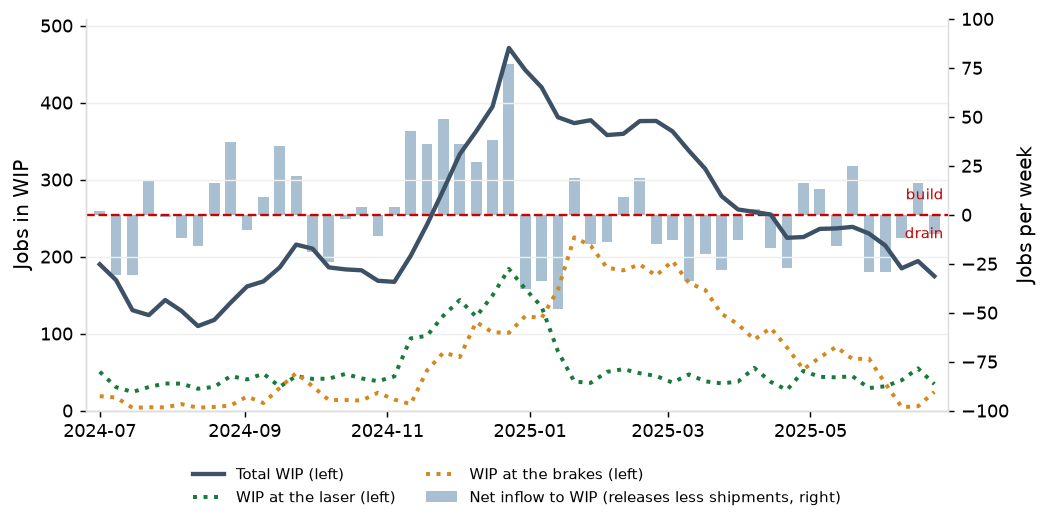
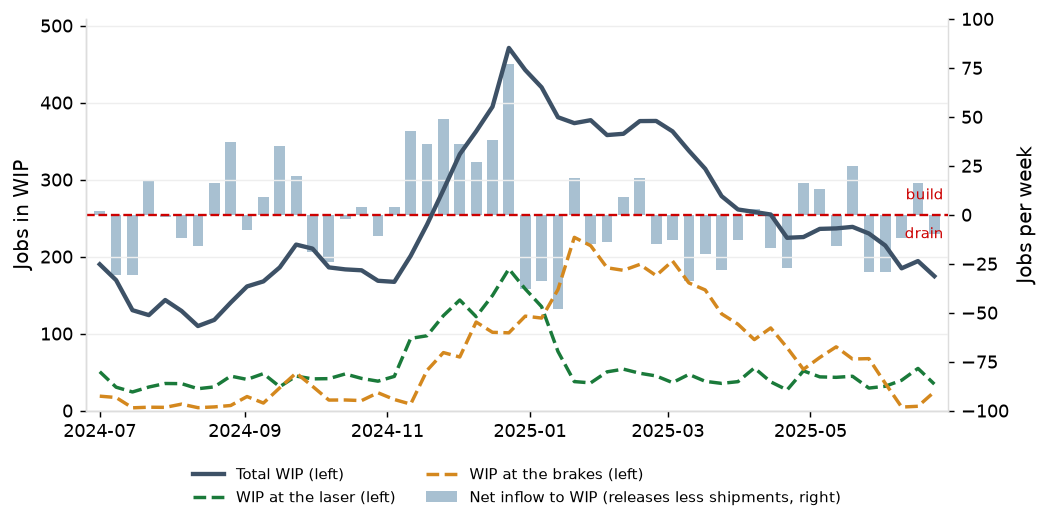
Flow and on-time delivery: report ends at its sections; late jobs wording and chart labels

diff --git a/docs/reports/lead_time_and_late_jobs.html b/docs/reports/lead_time_and_late_jobs.html
@@ -55,16 +55,16 @@ nav.toc a.sub { font-size: 12px; padding-left: 22px; }
 @media print { nav.toc { display: none; } .layout { display: block; max-width: none; padding: 0; } .content { max-width: none; padding: 0; } }
 </style></head>
 <body><div class="page-header"><h1>Report: Flow and On-time Delivery</h1><div class="sub">Created by Brian Davis, 2026</div></div>
-<div class="layout"><nav class="toc"><div class="toc-title">Contents</div><a href="#f1">1. Work in Process</a><a href="#f2">2. Lead Time</a><a href="#f3">3. Late Jobs</a><a href="#rec">Recommendation</a><a href="#method">Method and data</a><a href="#appendix">Appendix</a></nav>
+<div class="layout"><nav class="toc"><div class="toc-title">Contents</div><a href="#f1">1. Work in Process</a><a href="#f2">2. Lead Time</a><a href="#f3">3. Late Jobs</a><a href="#appendix">Appendix</a></nav>
 <main class="content"><h2 id='f1'>1. Work in Process</h2>
 
 <p>In 2025, the shop carried an average of 253 WIP jobs against a throughput of about 20 shipped a day, so a job spent about 13 working days on the floor. WIP averaged 193 jobs over the past three years and peaks every December: 252 jobs in 2023, 471 in 2024 and 383 in 2025.</p>
 <p>By location, the brakes (queue and run together) hold 30% of WIP in 2025, while the laser cutting stations hold 20% and outside processing 10%. The other eight work centers and jobs complete but not yet shipped hold the remaining 40% between them, none above 8%. In Q2-Q4 the brakes' share falls to 18% and the lasers' rises to 24%, as a result of the Q1 backlog having been worked through.</p>
 <p>The 2025 average floor WIP of 253 jobs was 1.03x higher than the quoted lead times imply at measured throughput; in Q2-Q4 it was 209 WIP jobs against 250 implied (0.84x). The excess for the year is a result of the first-quarter backlog. In Q2-Q4 the floor carried 41 fewer jobs than its quoted lead times allow at the throughput it achieved, so it could have taken on about 20% more work, or quoted shorter lead times, and still shipped the average job inside its quote. See Appendix Table <a href='#t1'>1</a> for additional detail.</p>
 <div class='chart-title'>Average Share of Jobs in WIP by Location</div><img alt="WIP by location" src="../figures/lead_time_wip_by_location.png?v=2cc4679e">
-<p>WIP was within 10% of its expected value (measured as throughput x working days) in 9 of the last 12 quarters, meaning the floor was in balance. The three quarters that miss are the 2024 year-end build (2024 Q4), when WIP ran ahead of shipments, and the quarters in which a build shipped (2023 Q1 and 2025 Q2), when shipments ran ahead of WIP. See Appendix Table <a href='#t2'>2</a> for additional detail.</p>
-<p>WIP peaked at 471 jobs at the end of 2024 against a Q3 2024 average of 153. In Q4 2024, the shop released 26% more brake standard hours than in Q3. Over six weeks in Q4 2024, this surge pushed the lasers to 92% of scheduled hours on average, vs. 69% in Q3. During the three peak weeks, 94 to 123 jobs were waiting to be cut, vs. an average of 36 jobs in Q3. The work then queued at the brakes, which already run at 91% in a normal quarter, and it took through Q1 and into Q2 2025 to clear the backlog. See Appendix Table <a href='#t3'>3</a> for additional detail.</p>
-<div class='chart-title'>Weekly WIP and Net Inflow, Q3 &rsquo;24 to Q2 &rsquo;25</div><img alt="Weekly WIP and net inflow, July 2024 to June 2025" src="../figures/lead_time_year_end_build.png?v=bf6adcb9">
+<p>WIP was within 10% of its expected value (measured as <i>throughput x working days</i>) in 9 of the last 12 quarters, meaning the floor was in balance. The three quarters that miss are the 2024 year-end build (2024 Q4), when WIP ran ahead of shipments, and the quarters in which a build shipped (2023 Q1 and 2025 Q2), when shipments ran ahead of WIP. See Appendix Table <a href='#t2'>2</a> for additional detail.</p>
+<p>WIP peaked at 471 jobs at the end of 2024 against a Q3 2024 average of 153. In Q4 2024, the shop released 26% more brake standard hours than in Q3. Over six weeks in Q4 2024, this surge pushed the lasers to 92% of scheduled hours on average, vs. 69% in Q3. During the three peak weeks, 94 to 123 jobs were waiting to be cut, vs. an average of 36 jobs in Q3. The work then queued at the brakes, which already run at 91% in a normal quarter, and it took through Q1 and into Q2 2025 to clear this backlog. See Appendix Table <a href='#t3'>3</a> for additional detail.</p>
+<div class='chart-title'>Weekly WIP and Net Inflow, Q3 &rsquo;24 to Q2 &rsquo;25</div><img alt="Weekly WIP and net inflow, July 2024 to June 2025" src="../figures/lead_time_year_end_build.png?v=8bcfba54">
 
 
 <h2 id='f2'>2. Lead Time</h2>
@@ -83,40 +83,19 @@ nav.toc a.sub { font-size: 12px; padding-left: 22px; }
 <h2 id='f3'>3. Late Jobs</h2>
 <h3 id='f3_1'>Drivers behind late jobs</h3>
 <p>In 2025, the shop had 1,226 late jobs that shipped a total of 4,647 days late (average of 3.8 days late for each job), with 379 of these late jobs (31%) in Q2-Q4 that shipped a total of 1,232 days late (average of 3.3 days late for each).</p>
-<p>We analyzed the ERP and shop-floor records to arrive at an attribution of lost days (i.e., how many days late the jobs shipped) by driver. For each late job, we counted the days above the on-time median at each stage as lost, and assigned to a driver by the rules in <a href='#method'>Method and data</a>.</p>
+<p>We analyzed the ERP and shop-floor records to arrive at an attribution of lost days (i.e., how many days late the jobs shipped) by driver. For each late job, we considered how many days it ran longer than an on-time job of the same routing class at each stage, as well as material holds and late purchase order receipts. We then assigned each job to a driver.</p>
 <p>In 2025, jobs waiting at work centers (i.e., queue constraints) accounted for 36% of the 4,647 lost days, while jobs that were released late accounted for 17%, and jobs that waited on material and outside processing accounted for 7% and 3%, respectively. In Q2-Q4, jobs that were released late accounted for 46% of the 1,232 lost days, with queue constraint (20%), material (9%) and outside processing (4%) the other main drivers. See Appendix Tables <a href='#t8'>8</a>, <a href='#t9a'>9a</a> and <a href='#t9b'>9b</a> for additional detail.</p>
 <p>33% of lost days in 2025 and 18% in Q2-Q4 have no attribution. Of the 1,543 non-attributed lost days in 2025, 54% was from work center queue time above on-time median but below the attribution threshold, 18% from setup and run time above normal with no overrun or rework recorded, and 11% from movement between stages. The remainder have no discernible cause. See Appendix Tables <a href='#t10'>10</a> and <a href='#t11'>11</a> for additional detail.</p>
 <div class='chart-title'>Lost days by attributed cause</div><img alt="Lost days by attributed cause" src="../figures/late_jobs_lost_days_by_cause.png?v=1f366db6">
-<div class='chart-title'>Lost days by work center and cause</div><img alt="Lost days by work center and cause" src="../figures/late_jobs_lost_days_by_work_center.png?v=dbcfb687">
+<div class='chart-title'>Lost days by work center and cause</div><img alt="Lost days by work center and cause" src="../figures/late_jobs_lost_days_by_work_center.png?v=a1671524">
 
 <h3 id='f3_2'>The shop's own records</h3>
 <p>Late-reason codes are inputted retroactively on late jobs by the customer service team during the weekly delivery review. These codes are pulled from a dropdown list with six choices: capacity, material, outside processing, customer change, quality and other. As seen below, a significant portion of late jobs had no late-reason code entered, and this is attributed to the fact these codes are entered in weekly batches, as opposed to shop floor entries at the time the job runs late. See Appendix Table <a href='#t13'>13</a> for additional detail.</p>
 <div class='chart-title'>Late-reason codes as entered on late jobs</div><img alt="Late-reason codes as entered on late jobs" src="../figures/late_jobs_codes_entered.png?v=0f49de80">
 <p>To validate the accuracy of these codes, we compared them against the lost days attribution drivers shown above. We first mapped the late-reason codes to the corresponding attribution drivers: queue constraint and setup overrun count as capacity; material, outside processing and quality as their own codes; a hold and days not attributed as other. The notable exception is that the "released late" attribution driver is not a listed option for late-reason codes; those jobs are mostly coded as capacity or other (137 of the 175 with a code), and count as other in the comparison. We recommend adding this late-reason code into the system, given it accounts for a significant portion of lost days.</p>
-<p>The entered code agrees with the largest attributed cause on 35.8% of coded late jobs against 31.3% expected by chance (31.3% against 26.1% in Q2-Q4). Queue constraint is the largest attributed cause on 43% of the jobs coded capacity, and on 42% of the jobs with no code and 40% of those coded material. Material is the largest cause on 17 of the 94 jobs coded material, outside processing on 2 of the 49 coded outside processing and quality on 1 of the 32 coded quality. Of the 258 jobs where released late is the largest cause, 94 are coded capacity, 83 carry no code and 43 are coded other. See Appendix Tables <a href='#t14'>14</a> and <a href='#t15'>15</a> for additional detail. From this analysis, we conclude that the late-reason codes carry almost no relevant information. In the <a href='#rec'>Recommendation</a> section, we lay out our proposed solution for the shop going forward.</p>
-<div class='chart-title'>What the shop coded against what the data shows</div><img alt="What the shop coded against what the data shows" src="../figures/late_jobs_code_against_cause.png?v=a616bc18">
-
-<h2 id='rec'>Recommendation</h2>
-
-<p>Restate the fixed quote as a percentile of the measured lead-time distribution by routing class (<a href='quoting_and_early_warning.html'>Quoting and early warning from load</a>): the 10-day repeat quote is met on 69% of jobs in an ordinary quarter. Plan the fourth-quarter peak with planned Saturday brake shifts from November through February and the setup program, sized on the shop model (<a href='options_tested.html'>Options tested: release rules, scheduling, shifts and equipment</a>); the 2024 build put 847 jobs late in the first quarter of 2025. Ordinary-quarter lateness is taken up in <a href='#f3'>Section 3</a>, where material, vendor and robotic weld causes are attributed job by job.</p>
-
-
-<p>Replace the late-reason code on the shipment with a buffer status record kept by production control: each job's time buffer in thirds, and a reason captured when the job turns red, from this list: promise inside the standard lead time; queue at a named work center; material short at the first cut; outside processing late; quality; hold by reason; not attributed. Review the record weekly in place of the late-reason Pareto.</p>
-<p>Require the rush flag and a named approver on every promise inside the standard lead time (<a href='quoting_and_early_warning.html'>the quoting report</a> sizes the quote). Extend the kit check to stock sheet items (<a href='quoting_and_early_warning.html'>the quoting report</a> measures kit completeness).</p>
-
-<p>Target: 95% of jobs shipped by the promised date in every quarter, the first quarter included.</p><p>Target: A reason recorded on every late job at the moment it turns red.</p>
-<table class="data"><thead><tr><th>Action</th><th>Owner</th><th>When</th></tr></thead><tbody><tr><td class="">Plan the fourth-quarter peak on the shop model: planned Saturday brake shifts and the setup program (<a href='options_tested.html'>the options report</a>); a WIP cap and due-date dispatch lower on-time delivery (<a href='options_tested.html'>the options report</a>)</td><td class="">Plant manager</td><td class="">April 2026</td></tr><tr><td class="">Restate quoted lead times as a percentile of measured lead time by routing class and brake load (<a href='quoting_and_early_warning.html'>the quoting report</a>)</td><td class="">Estimating and customer service manager</td><td class="">May 2026</td></tr><tr><td class="">Replace the late-reason code with a buffer status record: time buffer in thirds, reason captured when a job turns red, weekly review</td><td class="">Production control manager</td><td class="">March 2026</td></tr><tr><td class="">Require the rush flag and a named approver on every promise inside the standard lead time (<a href='quoting_and_early_warning.html'>the quoting report</a> sizes the quote)</td><td class="">Customer service manager</td><td class="">February 2026</td></tr><tr><td class="">Extend the kit check to stock sheet items (<a href='quoting_and_early_warning.html'>the quoting report</a> measures kit completeness)</td><td class="">Purchasing manager</td><td class="">March 2026</td></tr></tbody></table>
-<p>Follow-up: Weekly: WIP by location, brake queue per operation, and material wait at the first operation. <a href='quoting_and_early_warning.html'>The quoting report</a> evaluates these as leading measures of on-time delivery.</p>
-<h2 id='method'>Method and data</h2>
-<h3>Lead time decomposition</h3>
-<p>Jobs shipped in 2025, whole year and Q2-Q4; records from January 2023 to December 2025.<br>Sources: ERP, shop-floor data collection, quality, maintenance and attendance exports (batch 20261003T152921Z-20250101).</p>
-
-<p>Coverage: 5,245 jobs shipped in 2025, 3,815 in Q2-Q4. Durations are in working days; a scheduled Saturday counts as one. Lead time runs from the release date at 10:00 to the ship date at 15:00; days in WIP counts whole days from the release day to the day before shipment and is 0.21 days shorter on every job.<br>Stages: release to traveler print; first-operation queue (print to first cut, less material wait); material wait at the first operation (a recorded material hold, or a job-specific receipt after the print); queue (arrival at the work center to first start, operations after the first, less the powder scheduling wait to the next day of the color); setup and run (first start to last end of the operation); move (end of one operation to arrival at the next, less recorded holds, so holds not entered remain in it); holds (recorded holds only); outside processing (purchase order to receipt, with the wait before it); complete to ship.<br>Clock-offs closed automatically at shift end take the median hours of operator-closed transactions of the same work center and type. A new-part job is the first order against a new-part quote line within 60 days of the quote decision.<br>WIP is jobs released and not shipped, sampled every working day; throughput is jobs shipped per working day; the quarterly balance uses days in WIP of the jobs shipped in the quarter, including days before the quarter. Monthly, 17 of 36 periods are within 10%; rolling 13 weeks, 108 of 141.</p>
-
-<h3>Late jobs</h3>
-<p>Late jobs shipped in 2025, whole year and Q2-Q4; records from January 2023 to December 2025.<br>Sources: ERP, shop-floor data collection, quality, maintenance and attendance exports (batch 20261003T152921Z-20250101). Lost days in working days, scheduled Saturdays counted.</p>
-
-<p>Coverage: 1,226 late jobs and 4,647 lost days in 2025; 379 and 1,232 in Q2-Q4. A job's lost days are its working days late. Lost days at a stage are the stage days above the median of on-time jobs of the same routing class shipped in the same quarter; the powder scheduling wait is not lost time.<br>Rules. Released late: the standard lead time of 10, 15 or 20 working days less the promised lead time, capped at days late, allocated first. Queue constraint: an operation with queue above its work center's 80th percentile for the quarter, or first-operation queue above its 80th percentile. Material: material wait at the first operation with a kit shortage or material hold recorded; a material hold at a later operation; or first-operation queue where the sheet issue came after planned start and followed a stock receipt of the same item, with the first work center's queue that week below its median. Outside processing: a line received after its promised date. Setup overrun: setup above standard by more than 2 hours and by more than twice standard. Quality: a recorded quality hold, or setup and run above normal on a job with a rework operation. Hold: a recorded engineering, customer or tooling hold. Not attributed: the rest.<br>The days late remaining after released late are split across the stages' lost days in proportion; days at stages with no matching rule are not attributed.<br>Agreement compares the entered code with the cause holding the most lost days on the job: queue constraint and setup overrun count as capacity; material, outside processing and quality as their own codes; released late, hold and days not attributed as other. The chance level is the agreement expected if codes were assigned at the shop's code frequencies independently of the cause.</p>
+<p>As shown below, the shop's entered reason-codes do not adequately capture the true drivers of lost days. The entered code agrees with the largest attributed cause on just 35.8% of coded late jobs against 31.3% expected by chance (31.3% against 26.1% in Q2-Q4). Queue constraint is the largest attributed driver on 43% of the jobs coded capacity, and on 42% of the jobs with no code and 40% of those coded material. Material is the largest cause on just 17 of the 94 (18%) jobs coded material, outside processing on just 2 of the 49 coded outside processing (4%) and quality on just 1 of the 32 (3%) coded quality. Of the 258 jobs where released late is the largest attributed driver, 94 are coded capacity, 83 carry no code and 43 are coded other. See Appendix Tables <a href='#t14'>14</a> and <a href='#t15'>15</a> for additional detail.</p>
+<p>The shop should consider process changes to include additional options in the late-reason code dropdown menu, as well as to enable shop-floor data capture on the reasons for late jobs once they become late.</p>
+<div class='chart-title'>What the shop coded against what the data shows</div><img alt="What the shop coded against what the data shows" src="../figures/late_jobs_code_against_cause.png?v=e5150ef9">
 
 <h2 id='appendix'>Appendix</h2>
 
@@ -140,7 +119,7 @@ nav.toc a.sub { font-size: 12px; padding-left: 22px; }
 <h3 id='t12b'>Table 12b. Lost days by customer, top ten, 2025 Q2-Q4</h3><table class="data"><thead><tr><th>Customer</th><th>Key account</th><th>Jobs shipped</th><th>Late jobs</th><th>On time</th><th>Lost days</th><th>Share of lost days</th><th>Cumulative share</th><th>Largest cause</th></tr></thead><tbody><tr><td class="">Clearwater Signal Inc.</td><td class="">yes</td><td class="">510</td><td class="">40</td><td class="">92.2%</td><td class="">135</td><td class="">11.0%</td><td class="">11.0%</td><td class="">Queue constraint</td></tr><tr><td class="">Lakeside Conveyor Co.</td><td class="">yes</td><td class="">539</td><td class="">40</td><td class="">92.6%</td><td class="">129</td><td class="">10.5%</td><td class="">21.4%</td><td class="">Released late</td></tr><tr><td class="">Heritage Vehicle Systems Inc.</td><td class="">yes</td><td class="">98</td><td class="">13</td><td class="">86.7%</td><td class="">60</td><td class="">4.9%</td><td class="">26.3%</td><td class="">Released late</td></tr><tr><td class="">Sterling Health Systems Inc.</td><td class="">yes</td><td class="">126</td><td class="">19</td><td class="">84.9%</td><td class="">57</td><td class="">4.6%</td><td class="">30.9%</td><td class="">Released late</td></tr><tr><td class="">Harbor Medical Ltd.</td><td class="">yes</td><td class="">130</td><td class="">15</td><td class="">88.5%</td><td class="">54</td><td class="">4.4%</td><td class="">35.3%</td><td class="">Released late</td></tr><tr><td class="">Cedar Controls LLC</td><td class="">yes</td><td class="">128</td><td class="">19</td><td class="">85.2%</td><td class="">50</td><td class="">4.1%</td><td class="">39.4%</td><td class="">Released late</td></tr><tr><td class="">Horizon Trailer Co.</td><td class="">yes</td><td class="">274</td><td class="">20</td><td class="">92.7%</td><td class="">46</td><td class="">3.7%</td><td class="">43.1%</td><td class="">Released late</td></tr><tr><td class="">Highland Electrical Products Inc.</td><td class="">yes</td><td class="">59</td><td class="">11</td><td class="">81.4%</td><td class="">35</td><td class="">2.8%</td><td class="">45.9%</td><td class="">Released late</td></tr><tr><td class="">Riverside Climate Products Inc.</td><td class="">no</td><td class="">31</td><td class="">6</td><td class="">80.6%</td><td class="">28</td><td class="">2.3%</td><td class="">48.2%</td><td class="">Queue constraint</td></tr><tr><td class="">Pinnacle Transit Products Ltd.</td><td class="">yes</td><td class="">49</td><td class="">7</td><td class="">85.7%</td><td class="">26</td><td class="">2.1%</td><td class="">50.3%</td><td class="">Released late</td></tr></tbody></table>
 <h3 id='t13'>Table 13. Late-reason codes by period shipped</h3><table class="data"><thead><tr><th>Period shipped</th><th>Late jobs</th><th>Blank</th><th>Capacity share of entered codes</th></tr></thead><tbody><tr><td class="">2023</td><td class="">296</td><td class="">36.8%</td><td class="">46.5%</td></tr><tr><td class="">2024</td><td class="">386</td><td class="">34.2%</td><td class="">60.2%</td></tr><tr><td class="">2025</td><td class="">1,226</td><td class="">36.0%</td><td class="">61.7%</td></tr><tr><td class="">2025 Q2-Q4</td><td class="">379</td><td class="">35.1%</td><td class="">54.9%</td></tr></tbody></table>
 <h3 id='t14'>Table 14. Agreement of the entered code with the largest attributed cause</h3><table class="data"><thead><tr><th>Comparison</th><th>Period</th><th>Late jobs</th><th>Code agrees with largest attributed cause</th><th>Chance level</th><th>Over chance</th></tr></thead><tbody><tr><td class="">All coded late jobs</td><td class="">2025</td><td class="">785</td><td class="">35.8%</td><td class="">31.3%</td><td class="">+4.5 points</td></tr><tr><td class="">All coded late jobs</td><td class="">2025 Q2-Q4</td><td class="">246</td><td class="">31.3%</td><td class="">26.1%</td><td class="">+5.2 points</td></tr><tr><td class="">Jobs whose largest cause has a code</td><td class="">2025</td><td class="">390</td><td class="">58.2%</td><td class="">52.7%</td><td class="">+5.5 points</td></tr><tr><td class="">Jobs whose largest cause has a code</td><td class="">2025 Q2-Q4</td><td class="">89</td><td class="">47.2%</td><td class="">38.0%</td><td class="">+9.2 points</td></tr></tbody></table>
-<h3 id='t15'>Table 15. Entered code against largest attributed cause, 2025</h3><table class="data"><thead><tr><th>Code entered</th><th>Queue constraint</th><th>Released late</th><th>Material</th><th>Outside processing</th><th>Setup overrun</th><th>Quality</th><th>Hold</th><th>Not attributed</th></tr></thead><tbody><tr><td class="">Blank</td><td class="num">184</td><td class="num">83</td><td class="num">31</td><td class="num">3</td><td class="num">1</td><td class="num">1</td><td class="num">0</td><td class="num">138</td></tr><tr><td class="">Capacity</td><td class="num">206</td><td class="num">94</td><td class="num">24</td><td class="num">3</td><td class="num">1</td><td class="num">5</td><td class="num">1</td><td class="num">150</td></tr><tr><td class="">Material</td><td class="num">38</td><td class="num">13</td><td class="num">17</td><td class="num">3</td><td class="num">0</td><td class="num">1</td><td class="num">0</td><td class="num">22</td></tr><tr><td class="">Outside processing</td><td class="num">14</td><td class="num">14</td><td class="num">2</td><td class="num">2</td><td class="num">0</td><td class="num">0</td><td class="num">0</td><td class="num">17</td></tr><tr><td class="">Customer change</td><td class="num">25</td><td class="num">4</td><td class="num">2</td><td class="num">1</td><td class="num">0</td><td class="num">1</td><td class="num">1</td><td class="num">12</td></tr><tr><td class="">Quality</td><td class="num">17</td><td class="num">7</td><td class="num">1</td><td class="num">0</td><td class="num">0</td><td class="num">1</td><td class="num">0</td><td class="num">6</td></tr><tr><td class="">Other</td><td class="num">20</td><td class="num">43</td><td class="num">3</td><td class="num">2</td><td class="num">1</td><td class="num">0</td><td class="num">0</td><td class="num">11</td></tr></tbody></table>
+<h3 id='t15'>Table 15. Entered code against largest attributed cause, 2025</h3><table class="data"><thead><tr><th>Code entered</th><th>Queue constraint</th><th>Released late</th><th>Material</th><th>Outside processing</th><th>Setup overrun</th><th>Quality</th><th>Hold</th><th>Not attributed</th></tr></thead><tbody><tr><td class="">Capacity</td><td class="num">206</td><td class="num">94</td><td class="num">24</td><td class="num">3</td><td class="num">1</td><td class="num">5</td><td class="num">1</td><td class="num">150</td></tr><tr><td class="">Material</td><td class="num">38</td><td class="num">13</td><td class="num">17</td><td class="num">3</td><td class="num">0</td><td class="num">1</td><td class="num">0</td><td class="num">22</td></tr><tr><td class="">Outside processing</td><td class="num">14</td><td class="num">14</td><td class="num">2</td><td class="num">2</td><td class="num">0</td><td class="num">0</td><td class="num">0</td><td class="num">17</td></tr><tr><td class="">Customer change</td><td class="num">25</td><td class="num">4</td><td class="num">2</td><td class="num">1</td><td class="num">0</td><td class="num">1</td><td class="num">1</td><td class="num">12</td></tr><tr><td class="">Quality</td><td class="num">17</td><td class="num">7</td><td class="num">1</td><td class="num">0</td><td class="num">0</td><td class="num">1</td><td class="num">0</td><td class="num">6</td></tr><tr><td class="">Other</td><td class="num">20</td><td class="num">43</td><td class="num">3</td><td class="num">2</td><td class="num">1</td><td class="num">0</td><td class="num">0</td><td class="num">11</td></tr><tr><td class="">Blank</td><td class="num">184</td><td class="num">83</td><td class="num">31</td><td class="num">3</td><td class="num">1</td><td class="num">1</td><td class="num">0</td><td class="num">138</td></tr></tbody></table>
 <div class='glossary'>WIP: jobs released and not shipped. Quoted lead time: 10 working days for repeat parts, 15 for new parts, 20 with outside processing. On time: shipped on or before the promised date as last revised.</div>
 <div class='glossary'>Lost days: working days a job shipped after its promised date. Released late: promised inside the standard lead time of 10, 15 or 20 working days. Not attributed: lost days that match no rule.</div>
 </main></div></body></html>

diff --git a/analytics/late_jobs/sections.py b/analytics/late_jobs/sections.py
@@ -83,7 +83,7 @@ by_year = L_all.groupby("ship_year").agg(late=("job_id", "size"), blank=("late_r
                                          capacity=("late_reason_code", lambda x: (x.dropna() == "capacity").mean()))
 cross = pd.crosstab(LY.dropna(subset=["late_reason_code"])["late_reason_code"], LY.dropna(subset=["late_reason_code"])["dominant_cause"])
 cross = cross.reindex(index=CODES, columns=CAUSES).fillna(0).astype(int)
-cross_all = pd.crosstab(LY["late_reason_code"].fillna("blank"), LY["dominant_cause"]).reindex(index=["blank"] + CODES, columns=CAUSES).fillna(0).astype(int)
+cross_all = pd.crosstab(LY["late_reason_code"].fillna("blank"), LY["dominant_cause"]).reindex(index=CODES + ["blank"], columns=CAUSES).fillna(0).astype(int)
 mat_jobs = set(AY.loc[AY["cause"] == "material", "job_id"])
 mat_coded = int((LY[LY["job_id"].isin(mat_jobs)]["late_reason_code"] == "material").sum())
 
@@ -155,6 +155,8 @@ def fig_work_center():
             v = sig(W[k].reindex(centers).fillna(0.0).values)
             ax.bar(x + dx, v, width=0.36, bottom=bottom, color=CAUSE_COLOR[k])
             bottom += v
+        for xi, total in zip(x + dx, bottom):
+            ax.text(xi, total, f"{total:,.0f}", ha="center", va="bottom", fontsize=7)
         ticks += list(x + dx)
         names += [name] * len(centers)
     for xi in x[:-1]:
@@ -303,8 +305,8 @@ def report():
              f"for each job), with {n0(len(LR))} of these late jobs ({pct(len(LR) / len(LY), 0)}) in {REST} that shipped a total of {n0(r['total'])} days late "
              f"(average of {d1(r['total'] / len(LR))} days late for each).</p>")
     b.append("<p>We analyzed the ERP and shop-floor records to arrive at an attribution of lost days (i.e., how many days late the jobs shipped) by driver. "
-             "For each late job, we counted the days above the on-time median at each stage as lost, and assigned to a driver by the rules in "
-             "<a href='#method'>Method and data</a>.</p>")
+             "For each late job, we considered how many days it ran longer than an on-time job of the same routing class at each stage, as well as material "
+             "holds and late purchase order receipts. We then assigned each job to a driver.</p>")
     b.append(f"<p>In {YEAR}, jobs waiting at work centers (i.e., queue constraints) accounted for {pct(ys['constraint queue'], 0)} of the {n0(y['total'])} lost days, "
              f"while jobs that were released late accounted for {pct(ys['released late'], 0)}, and jobs that waited on material and outside processing accounted for "
              f"{pct(ys['material'], 0)} and {pct(ys['outside processing'], 0)}, respectively. In {REST}, jobs that were released late accounted for "
@@ -332,16 +334,17 @@ def report():
              f"system, given it accounts for a significant portion of lost days.</p>")
     cq = cross_all["constraint queue"] / cross_all.sum(axis=1)
     rel = cross_all["released late"]
-    b.append(f"<p>The entered code agrees with the largest attributed cause on {pct(AG['year']['agree'])} of coded late jobs against {pct(AG['year']['chance'])} "
-             f"expected by chance ({pct(AG[REST]['agree'])} against {pct(AG[REST]['chance'])} in {REST}). Queue constraint is the largest attributed cause on "
+    b.append(f"<p>As shown below, the shop's entered reason-codes do not adequately capture the true drivers of lost days. The entered code agrees with the largest "
+             f"attributed cause on just {pct(AG['year']['agree'])} of coded late jobs against {pct(AG['year']['chance'])} expected by chance "
+             f"({pct(AG[REST]['agree'])} against {pct(AG[REST]['chance'])} in {REST}). Queue constraint is the largest attributed driver on "
              f"{pct(cq['capacity'], 0)} of the jobs coded capacity, and on {pct(cq['blank'], 0)} of the jobs with no code and {pct(cq['material'], 0)} of those coded "
-             f"material. Material is the largest cause on {n0(cross_all.loc['material', 'material'])} of the {n0(cross_all.loc['material'].sum())} jobs coded "
-             f"material, outside processing on {n0(cross_all.loc['outside processing', 'outside processing'])} of the "
-             f"{n0(cross_all.loc['outside processing'].sum())} coded outside processing and quality on {n0(cross_all.loc['quality', 'quality'])} of the "
-             f"{n0(cross_all.loc['quality'].sum())} coded quality. Of the {n0(rel.sum())} jobs where released late is the largest cause, {n0(rel['capacity'])} are "
-             f"coded capacity, {n0(rel['blank'])} carry no code and {n0(rel['other'])} are coded other. {see(3, 4)} From this analysis, we conclude that the "
-             f"late-reason codes carry almost no relevant information. In the <a href='#rec'>Recommendation</a> section, we lay out our proposed solution for the "
-             f"shop going forward.</p>")
+             f"material. Material is the largest cause on just {n0(cross_all.loc['material', 'material'])} of the {n0(cross_all.loc['material'].sum())} "
+             f"({pct(cross_all.loc['material', 'material'] / cross_all.loc['material'].sum(), 0)}) jobs coded material, outside processing on just {n0(cross_all.loc['outside processing', 'outside processing'])} of the "
+             f"{n0(cross_all.loc['outside processing'].sum())} coded outside processing ({pct(cross_all.loc['outside processing', 'outside processing'] / cross_all.loc['outside processing'].sum(), 0)}) and quality on just {n0(cross_all.loc['quality', 'quality'])} of the "
+             f"{n0(cross_all.loc['quality'].sum())} ({pct(cross_all.loc['quality', 'quality'] / cross_all.loc['quality'].sum(), 0)}) coded quality. Of the {n0(rel.sum())} jobs where released late is the largest attributed driver, "
+             f"{n0(rel['capacity'])} are coded capacity, {n0(rel['blank'])} carry no code and {n0(rel['other'])} are coded other. {see(3, 4)}</p>")
+    b.append("<p>The shop should consider process changes to include additional options in the late-reason code dropdown menu, as well as to enable shop-floor data "
+             "capture on the reasons for late jobs once they become late.</p>")
     b.append(chart("What the shop coded against what the data shows", fig_mosaic()))
 
     b.append("<h2 id='rec'>Recommendation and control</h2>")

diff --git a/analytics/lead_time/sections.py b/analytics/lead_time/sections.py
@@ -158,8 +158,8 @@ def fig_weekly_year():
     f, ax = fig(h=4.2)
     x = pd.to_datetime(d["week_start"])
     ax.plot(x, d["wip_mean"], color=BRAND_BLUE, linewidth=2.4, label="Total WIP (left)")
-    ax.plot(x, d["wip_at_laser"], color=GREEN, linewidth=2.2, linestyle=":", label="WIP at the laser (left)")
-    ax.plot(x, d["wip_at_brakes"], color=AMBER, linewidth=2.2, linestyle=":", label="WIP at the brakes (left)")
+    ax.plot(x, d["wip_at_laser"], color=GREEN, linewidth=1.9, linestyle="--", label="WIP at the laser (left)")
+    ax.plot(x, d["wip_at_brakes"], color=AMBER, linewidth=1.9, linestyle="--", label="WIP at the brakes (left)")
     ax.set_ylabel("Jobs in WIP")
     ax2 = ax.twinx()
     ax2.bar(x, net, width=4.6, color=LIGHT_BLUE, label="Net inflow to WIP (releases less shipments, right)", zorder=2)
@@ -379,7 +379,7 @@ def report():
     ahead = [qlabel(x) for x in llq_miss.loc[llq_miss["wip_over_throughput_x_lead_time"] > 1, "period_start"]]
     behind = [qlabel(x) for x in llq_miss.loc[llq_miss["wip_over_throughput_x_lead_time"] < 1, "period_start"]]
     assert ahead == ["2024 Q4"] and len(behind) >= 1
-    b.append(f"<p>WIP was within 10% of its expected value (measured as throughput x working days) in {llq_in} of the last {len(llq)} quarters, "
+    b.append(f"<p>WIP was within 10% of its expected value (measured as <i>throughput x working days</i>) in {llq_in} of the last {len(llq)} quarters, "
              f"meaning the floor was in balance. The {NUMBER[len(llq_miss)]} quarters that miss are the 2024 year-end build ({ahead[0]}), when WIP ran "
              f"ahead of shipments, and the quarters in which a build shipped ({join_and(behind)}), when shipments ran ahead of WIP. {see('6')}</p>")
     b.append(f"<p>WIP peaked at {n0(peaks[2024]['peak'])} jobs at the end of 2024 against a Q3 2024 average of {n0(peaks[2024]['q3'])}. In Q4 2024, the shop "
@@ -387,7 +387,7 @@ def report():
              f"{pct(laser_six['laser_utilization'].mean(), 0)} of scheduled hours on average, vs. {pct(q3_24['laser_utilization'].mean(), 0)} in Q3. During the "
              f"three peak weeks, {n0(laser_three['wip_at_laser'].min())} to {n0(laser_three['wip_at_laser'].max())} jobs were waiting to be cut, "
              f"vs. an average of {n0(q3_24['wip_at_laser'].mean())} jobs in Q3. The work then queued at the brakes, which already run at {pct(brake_rest, 0)} in a "
-             f"normal quarter, and it took through Q1 and into Q2 {YEAR} to clear the backlog. {see('7')}</p>")
+             f"normal quarter, and it took through Q1 and into Q2 {YEAR} to clear this backlog. {see('7')}</p>")
     b.append(chart("Weekly WIP and Net Inflow, Q3 &rsquo;24 to Q2 &rsquo;25", fig_weekly_year()))
 
     b.append("<h2 id='rec'>Recommendation</h2>")

diff --git a/analytics/reports/combine.py b/analytics/reports/combine.py
@@ -75,7 +75,7 @@ def references(body):
     return re.sub(r"\[\[([RN]):(\w+)\]\]", one, body)
 
 
-def write(key, first, second, titles, lead=None, same_target=False, header=True, arrange=None, heading=None):
+def write(key, first, second, titles, lead=None, same_target=False, header=True, arrange=None, heading=None, closing=True):
     stem, title, _ = REPORTS[key]
     a, b = first.report(), second.report()
     A, B = split(a["body"]), split(b["body"])
@@ -96,10 +96,10 @@ def write(key, first, second, titles, lead=None, same_target=False, header=True,
     scope1 = scope2 = ""
     if not header:                       # no header block on the page: each half's scope and sources open its method note
         scope1, scope2 = f"<p>{a['meta']}</p>", f"<p>{b['meta'].replace(SHOP, '', 1)}</p>"
+    ending = ["<h2 id='rec'>Recommendation</h2>", A["rec"], B["rec"], targets, table(rows), follow,
+              "<h2 id='method'>Method and data</h2>", f"<h3>{titles[0]}</h3>", scope1, A["method"], f"<h3>{titles[1]}</h3>", scope2, method2]
     body = "\n".join([
-        A["sections"], B["sections"],
-        "<h2 id='rec'>Recommendation</h2>", A["rec"], B["rec"], targets, table(rows), follow,
-        "<h2 id='method'>Method and data</h2>", f"<h3>{titles[0]}</h3>", scope1, A["method"], f"<h3>{titles[1]}</h3>", scope2, method2,
+        A["sections"], B["sections"], *(ending if closing else []),      # a report can end at its sections, with the appendix after them
         "<h2 id='appendix'>Appendix</h2>", table_anchors(A["appendix"]), table_anchors(B["appendix"]), A["glossary"], B["glossary"]])
     body = chart_titles(body)
     span = {"first": (1, n_sections), "second": (n_sections + 1, n_sections + n_second)}
@@ -110,7 +110,7 @@ def write(key, first, second, titles, lead=None, same_target=False, header=True,
     if arrange:
         body, sections_toc = arrange(body, sections_toc)
     toc = (sections_toc
-           + [("rec", "Recommendation"), ("method", "Method and data"), ("appendix", "Appendix")])
+           + ([("rec", "Recommendation"), ("method", "Method and data")] if closing else []) + [("appendix", "Appendix")])
     meta = ""
     if header:
         rest = b["meta"].replace(SHOP, "", 1)

diff --git a/analytics/reports/lead_time_and_late_jobs.py b/analytics/reports/lead_time_and_late_jobs.py
@@ -18,7 +18,7 @@ TABLES = [("5", "1"), ("6", "2"), ("7", "3"), ("1", "4"), ("5a", "5"), ("2a", "6
 def arrange(body, toc):
     """Three sections: work in process, lead time and late jobs, the last two with their parts under unnumbered headings; the appendix tables follow that order."""
     start = body.index("<h2 id='f1'>")
-    end = body.index("<h2 id='rec'>")
+    end = body.index("<h2 id='appendix'>")
     parts = re.split(r"<h2 id='f(\d+)'>\d+\. (.*?)</h2>", body[start:end])
     old = {int(parts[k]): (parts[k + 1], parts[k + 2]) for k in range(1, len(parts), 3)}
     out, new_toc = [], []
@@ -48,7 +48,7 @@ def arrange(body, toc):
 
 def main():
     write("lead", first, second, ("Lead time decomposition", "Late jobs"), lead=None, same_target=False, header=False, arrange=arrange,
-          heading="Report: Flow and On-time Delivery")
+          heading="Report: Flow and On-time Delivery", closing=False)
 
 
 if __name__ == "__main__":
